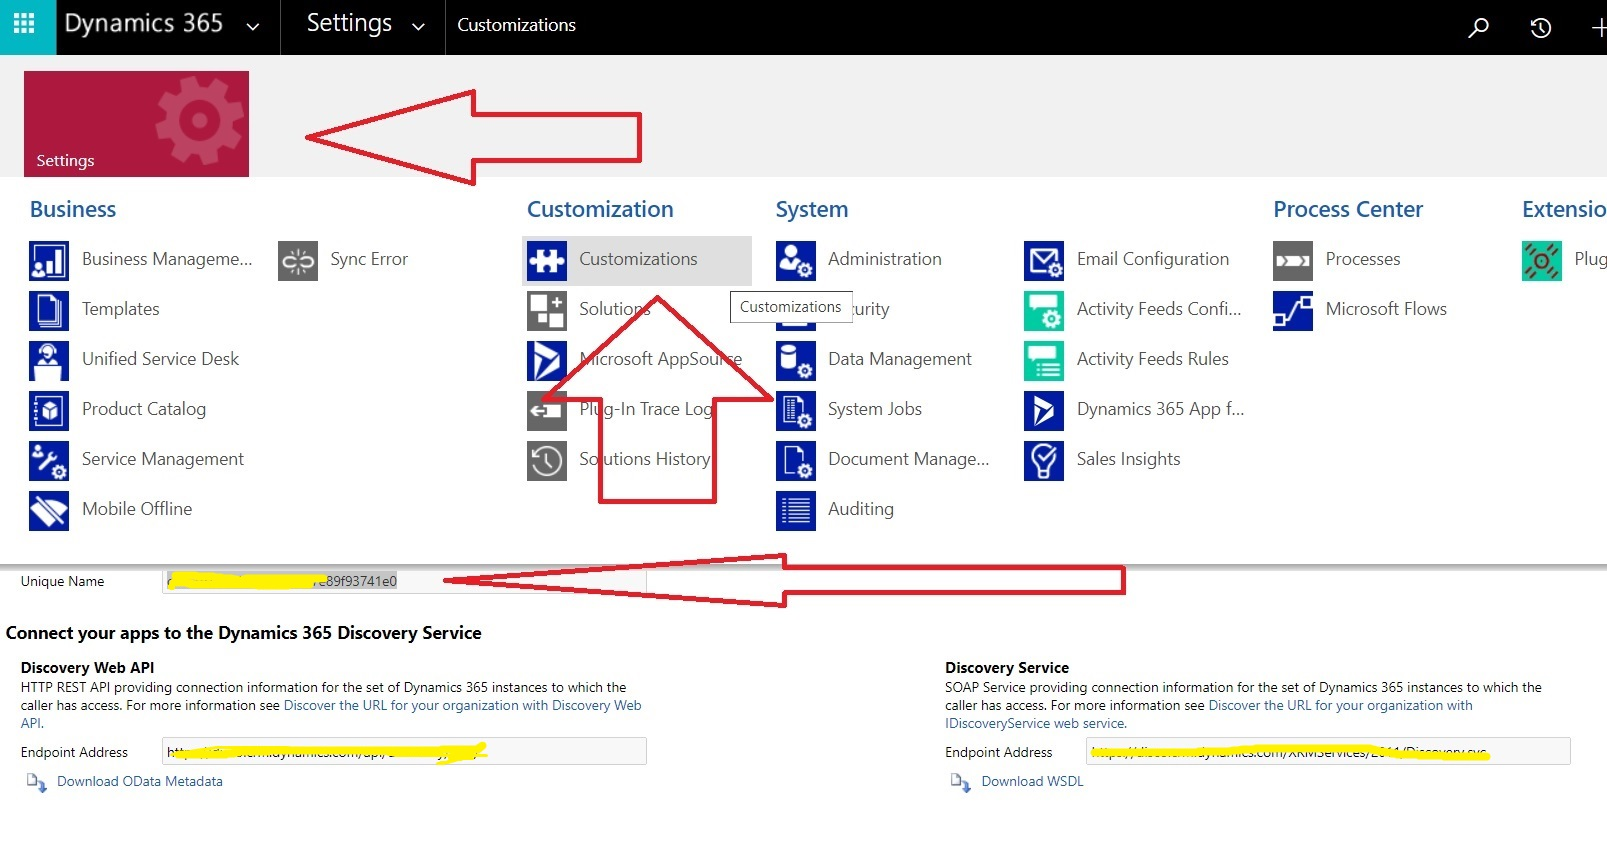
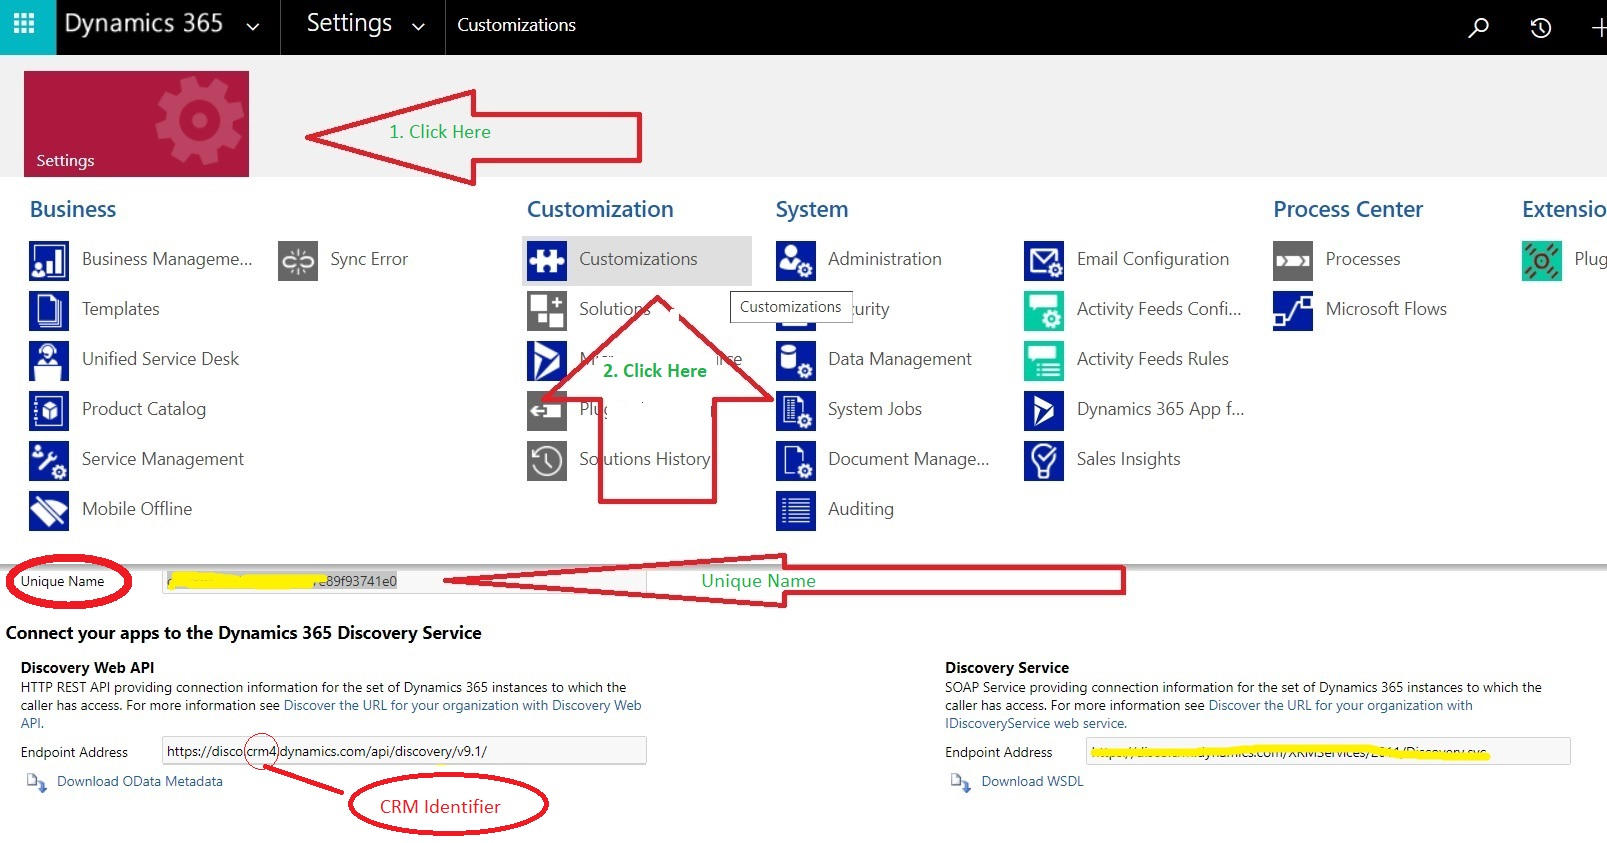
update the documentation

diff --git a/README.md b/README.md
@@ -24,8 +24,9 @@ Once the deployment of connection completes, you should see <b>"Go to resource g
 
 ### Deploy Azure components
 
-Click the below button, it will again  redirect you to azure portal, Please select the <b>same subscription and resource group</b> and enter the CDS Org Unique name.
-this unique name can be found in your CDS tenant(login to cds) -> Setting-> Customization -> Developer Resource -> Unique name. Attached the image for the reference
+Click the below button, it will again  redirect you to azure portal, Please select the <b>same subscription and resource group</b> and enter the CDS Org Unique name as well as Crm Identifier.
+ * <b> Unique Name:- Unique name can be found in your CDS tenant(login to cds) -> Setting-> Customization -> Developer Resource -> Unique name. Attached the image for the reference </b>
+ * <b>CRM Identifier:- Look at the Endpoint Address, it would be some thing like https://disco.crm4.dynamics.com/api/discovery . Crm4 is Crm Identifier here</b>. 
 
 [![Deploy Component](https://aka.ms/deploytoazurebutton)](https://portal.azure.com/#create/Microsoft.Template/uri/https%3A%2F%2Fraw.githubusercontent.com%2Fv-sosah%2FAzureMediaDeployment%2Fmain%2Fdeployment%2Fdeploy.json)
 
